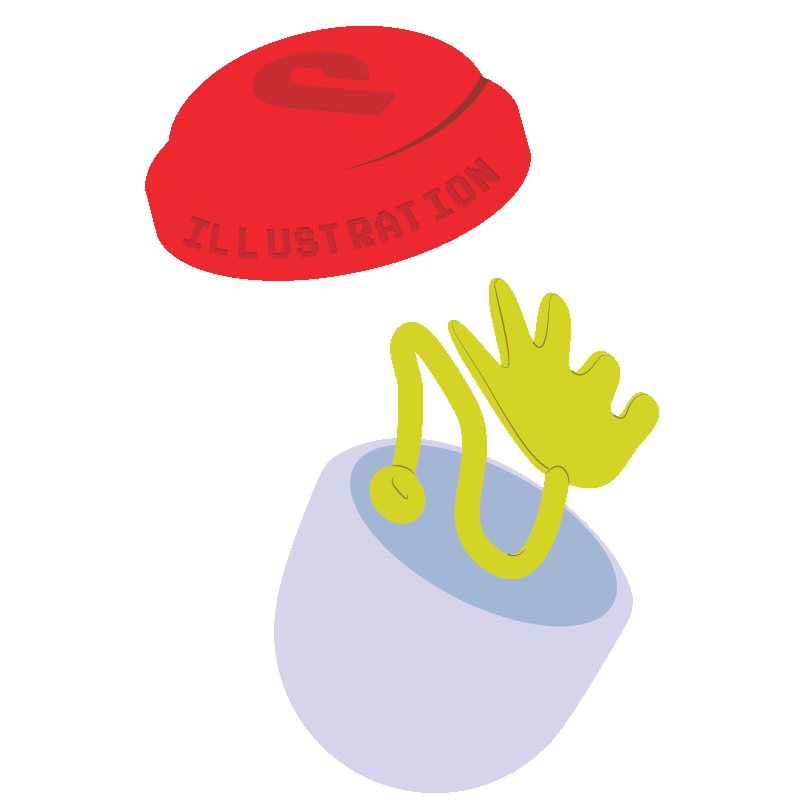
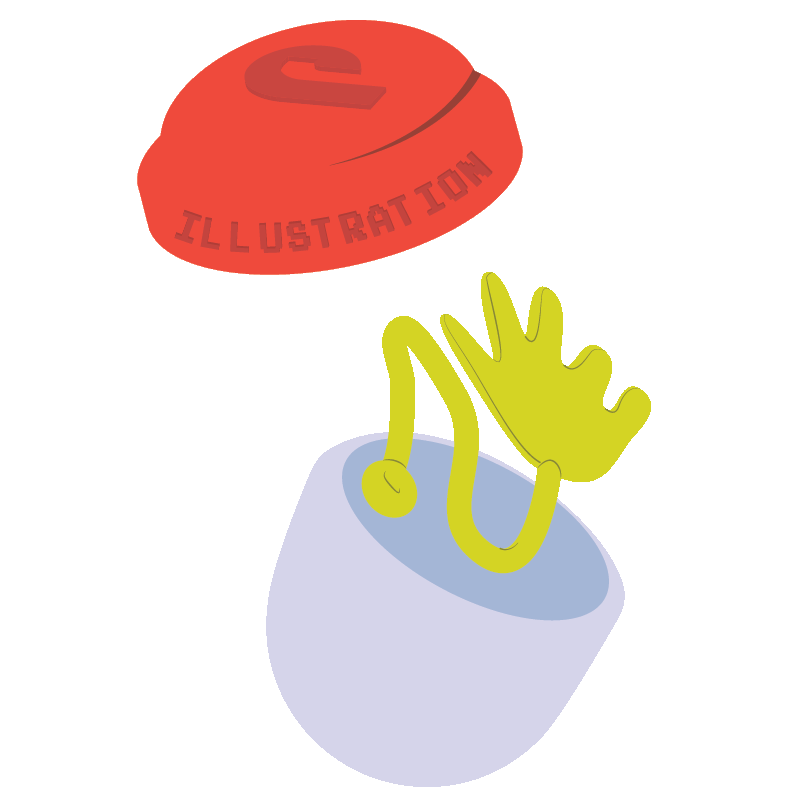
updated css and html
--colors of text
--updated illustaration icon

diff --git a/index.html b/index.html
@@ -22,10 +22,10 @@
     <ul>
       <li><a href="#contacts">Contacts</a></li>
       <li><a href="#work">Work</a></li>
-      <li>Experience</li>
+      <li><a href="">Experience</a></li>
       <li class="empty"></li>
       <li><a href="https://github.com/parksrichiework" target="_blank">Github</a></li>
-      <li><a href="" target="_blank">Twitter</a></li>
+      <!-- <li><a href="" target="_blank">Twitter</a></li> -->
       <li><a href="https://www.linkedin.com/in/richard-parks-17459a91/" target="_blank">LinkedIn</a></li>
     </ul>
   </nav>
@@ -84,7 +84,7 @@
         <!-- left column -->
         <div class="col-sm">
           <figure>
-            <img src="img/graphic-design.png"  alt="Cosmetics" />
+            <img src="img/graphic-design.png"  alt="graphic design icon" />
             <!-- <figcaption class="right-alignment">
               made in Adobe Ai
             </figcaption> -->
@@ -101,13 +101,13 @@
             party, blue bottle normcore banh mi gastropub lomo fingerstache four dollar toast single-origin coffee hell of 3 wolf moon palo santo kinfolk.
           </p>
           <a class="button" href="">read more</a>
-  </section>
-  </div>
-  </div>
+        </section>
+      </div>
+    </div>
   </div>
 
 
-  <!-- project 02 -->
+  <!-- design thinking -->
 
   <section class="project">
     <div class="container">
@@ -139,18 +139,15 @@
 
   </section>
 
-  <!-- project 03 -->
+  <!-- web design -->
   <section class="project blue">
     <div class="container">
       <div class="row">
         <!-- left column -->
         <div class="col-6">
           <figure>
-            <img src="img/web-design.png" alt="Poster/Flyer Design" />
-            <!-- <figcaption class="right-alignment">
-              made with Adobe Ai
-            </figcaption> -->
-          </figure>
+            <img src="img/web-design.png" alt="web design icon" />
+                      </figure>
         </div>
         <!-- right column -->
         <div class="col-sm">
@@ -169,21 +166,51 @@
     </div>
   </section>
 
+  <!-- illustration -->
+
+  <section class="project">
+    <div class="container">
+      <div class="row">
+        <!-- left column -->
+        <div class="col-sm right-alignment">
+          <h2>
+            illu</br>
+            stration
+          </h2>
+          <p class="services-about">
+            Lorem ipsum dolor amet sartorial quinoa 3 wolf moon, tilde neutra succulents vegan kitsch church-key vaporware. Pork belly thundercats iPhone tilde 90’s ugh. Narwhal post-ironic VHS affogato subway tile. Everyday carry copper mug art
+            party, blue bottle normcore banh mi gastropub lomo fingerstache four dollar toast single-origin coffee hell of 3 wolf moon palo santo kinfolk.
+          </p>
+          <a class="button" href="">see more</a>
+        </div>
+
+        <!-- right column -->
+        <div class="col-sm">
+          <figure>
+            <img src="img/illustration.png" alt="illustration icon" />
+            <!-- <figcaption>
+              made with Adobe Ai
+            </figcaption> -->
+          </figure>
+        </div>
+      </div>
+    </div>
+
+  </section>
+
 <!-- portfolio pages -->
 <div class="container" id=work>
   <div class="row">
-    <div class="col-sm"
-><img src="img/portfolio-pages/01.jpg" alt="Portfolio Page 1"/>
-<img src="img/portfolio-pages/02.jpg" alt="Portfolio Page 2"/>
-<img src="img/portfolio-pages/03.jpg" alt="Portfolio Page 3"/>
-<img src="img/portfolio-pages/04.jpg" alt="Portfolio Page 4"/>
-<img src="img/portfolio-pages/05.jpg" alt="Portfolio Page 5"/>
-<img src="img/portfolio-pages/06.jpg" alt="Portfolio Page 6"/>
-<img src="img/portfolio-pages/07.jpg" alt="Portfolio Page 7"/>
-<img src="img/portfolio-pages/08.jpg" alt="Portfolio Page 8"/>
-
+    <div class="col-sm">
+      <img src="img/portfolio-pages/01.jpg" alt="Portfolio Page 1"/>
+      <img src="img/portfolio-pages/02.jpg" alt="Portfolio Page 2"/>
+      <img src="img/portfolio-pages/03.jpg" alt="Portfolio Page 3"/>
+      <img src="img/portfolio-pages/04.jpg" alt="Portfolio Page 4"/>
+      <img src="img/portfolio-pages/05.jpg" alt="Portfolio Page 5"/>
+      <img src="img/portfolio-pages/06.jpg" alt="Portfolio Page 6"/>
+      <img src="img/portfolio-pages/07.jpg" alt="Portfolio Page 7"/>
+      <img src="img/portfolio-pages/08.jpg" alt="Portfolio Page 8"/>
     </div>
-
   </div>
 </div>
 

diff --git a/css/styles.css b/css/styles.css
@@ -1,7 +1,7 @@
 /* portfolio purple: #6E53A1 */
 /* darker purple: #382B50 */
 /* lighter purple: #D5BFFF */
-/* PORFOLIO BLUE: #333FFF */
+
 body {
   /* font-family: 'Noto Sans Display', sans-serif; */
   /* font-family: 'Dela Gothic One', cursive; */
@@ -42,7 +42,7 @@ img {
 }
 
 nav {
-  background-color: #6E53A1;
+  background-color: #382B50;
   position: fixed;
   z-index: 10;
   width: 100%;
@@ -50,14 +50,14 @@ nav {
 
 li.empty {
   width: 50px;
-  border-top: 0.5px solid #382B50;
+  border-top: 0.5px solid #D5BFFF;
   top: -5px;
   position: relative;
 }
 
 nav li a {
   text-decoration: none;
-  color: #382B50;
+  color: #D5BFFF;
   transition: 0.3 ease-in-out;
 }
 
@@ -151,7 +151,7 @@ figcaption {
 }
 
 .project {
-  margin: 70px;
+  margin: 70px 0px;
   padding: 20px;
 }
 
@@ -171,6 +171,7 @@ footer {
 footer h2 {
   font-size: 50px;
   margin-bottom: 50px;
+  width: 100%;
 }
 
 .right-alignment {
